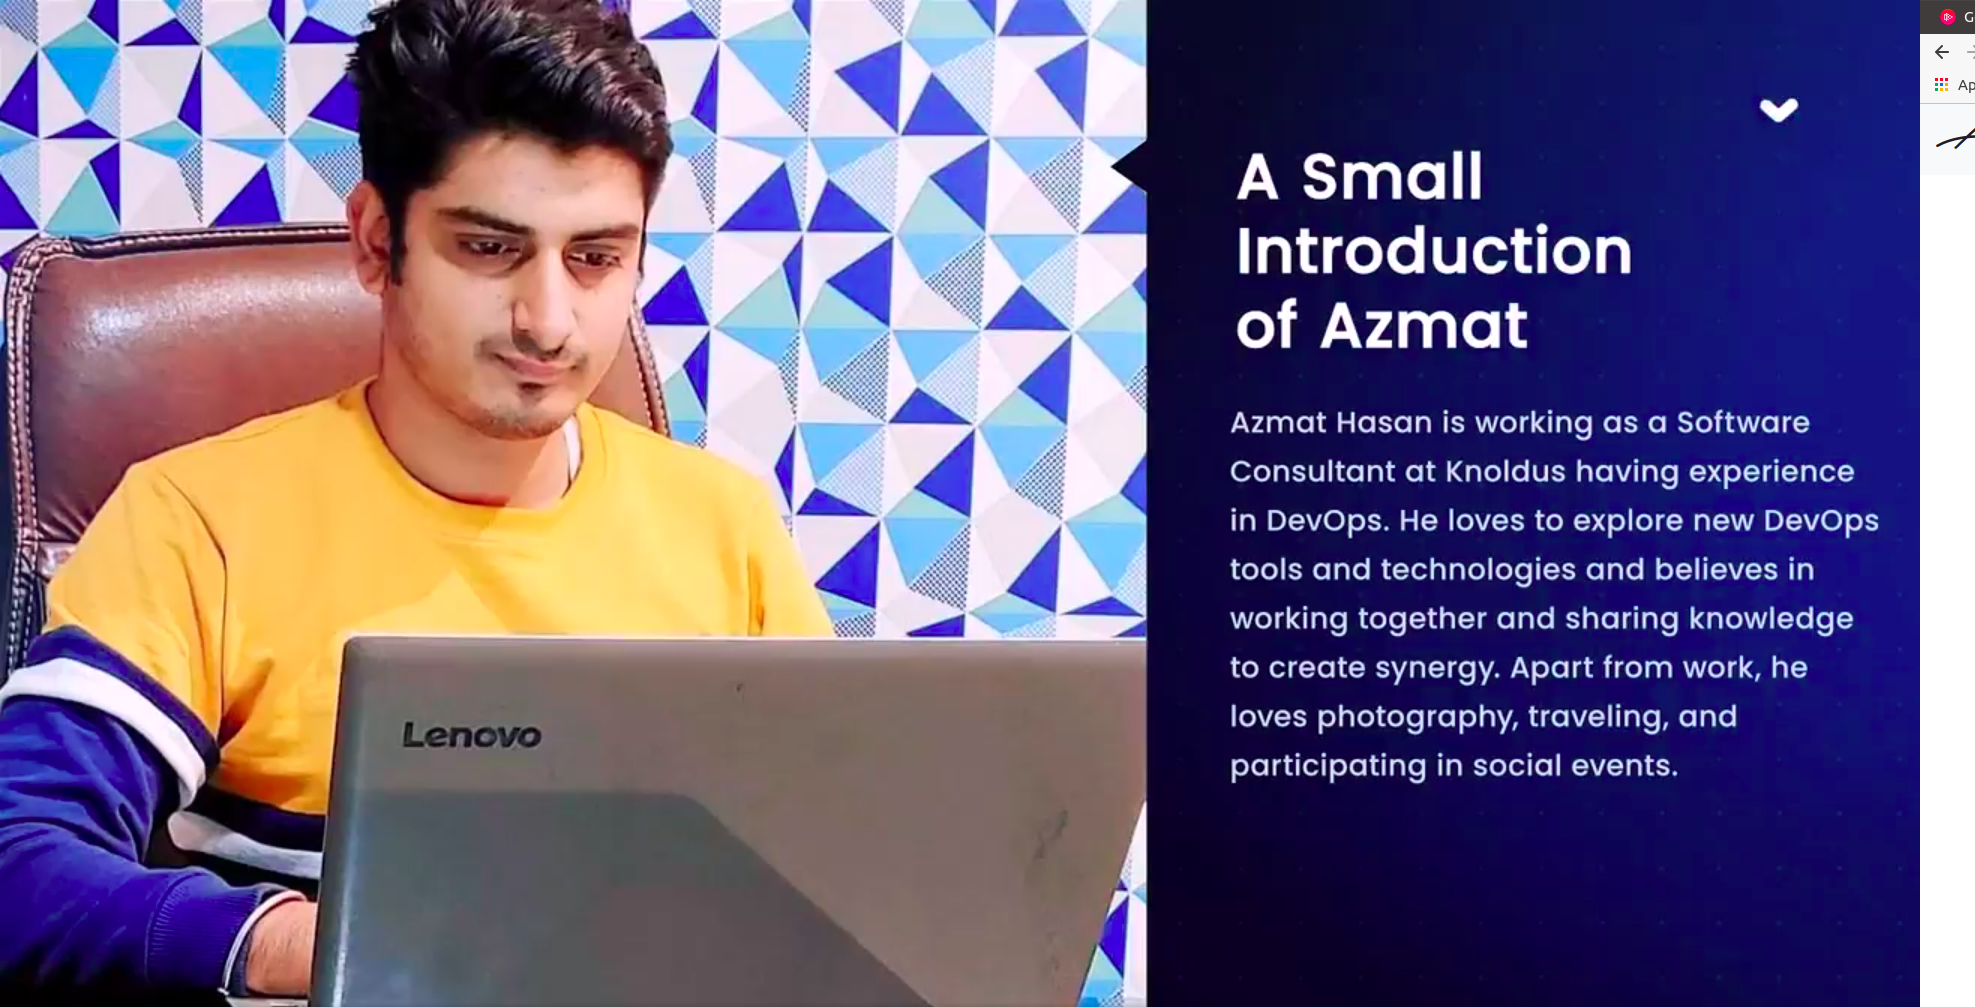
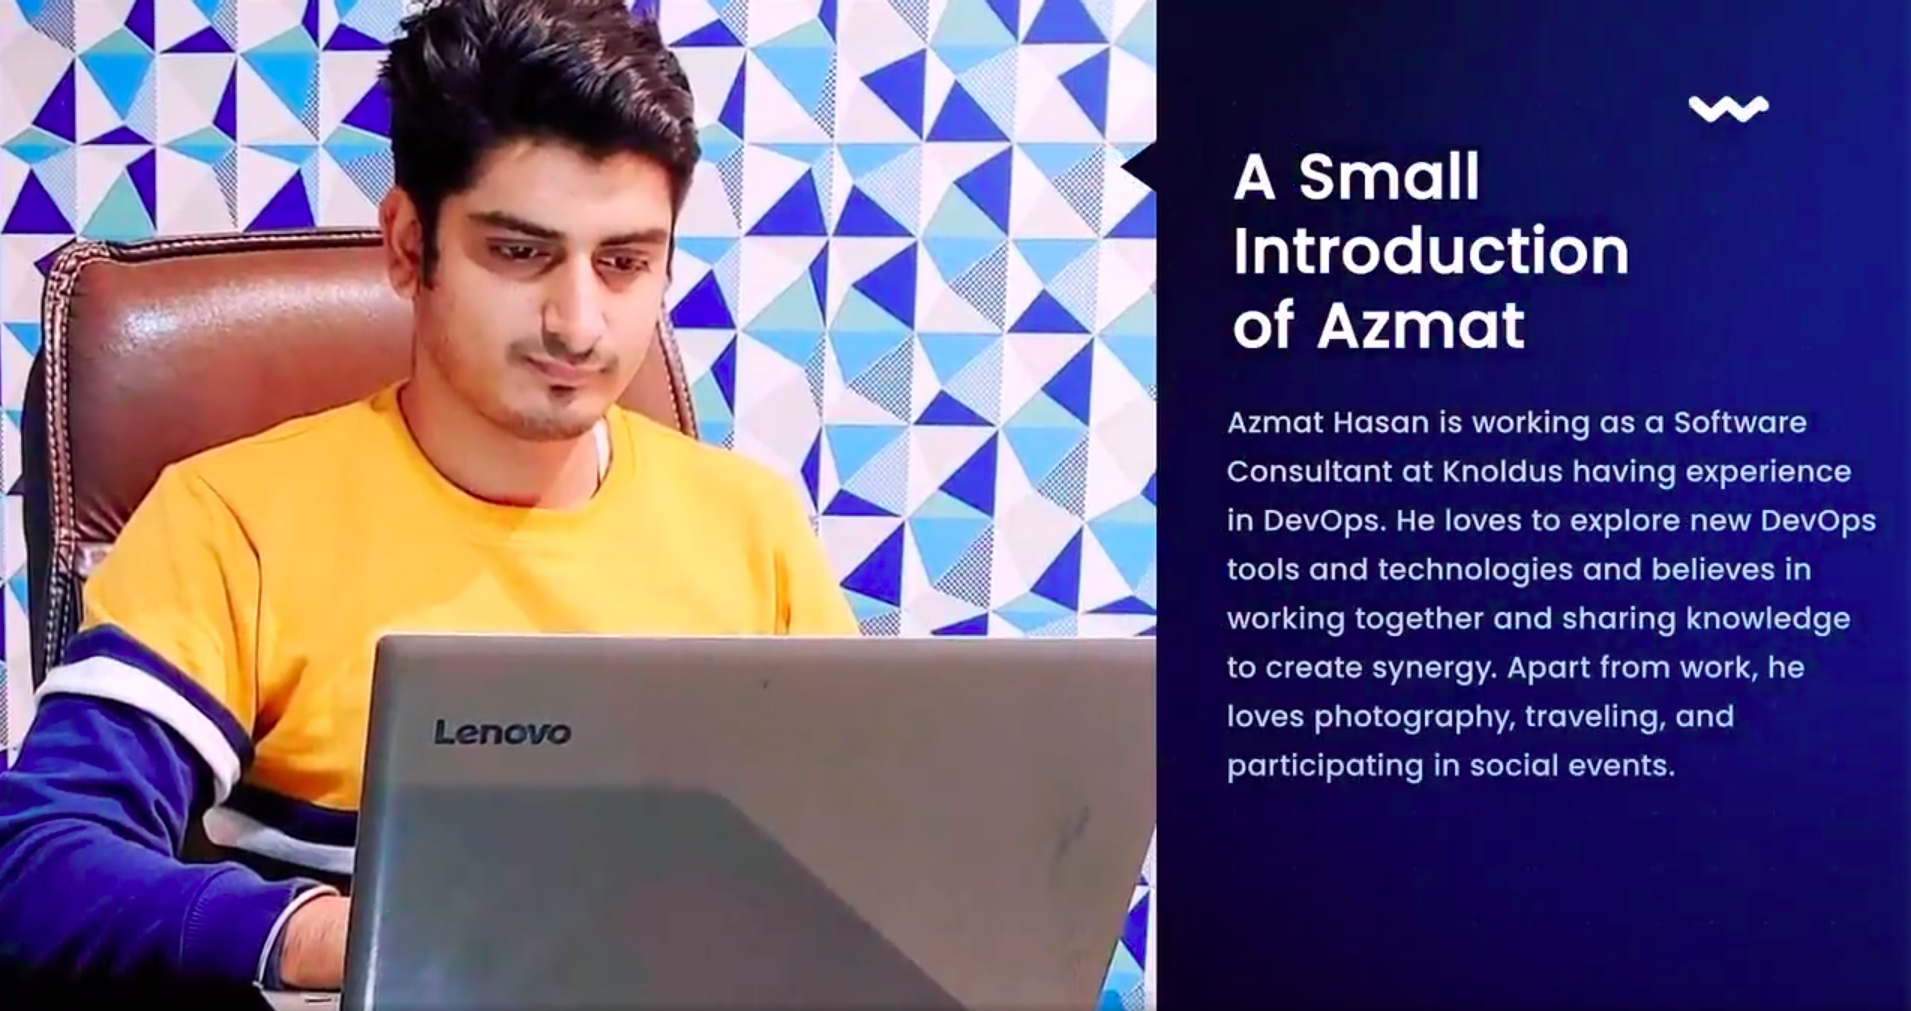
Removed unwanted files

diff --git a/introduction.html b/introduction.html
@@ -98,19 +98,19 @@
     <center>
        <div>
         <br><br><br>
-          <img src="assets/images/research-page/1.png" alt="" height="650" width="1200"><br><br>
+          <img src="assets/images/research-page/1.png" style="max-width:100%;height:auto;"><br><br>
       </div> 
        <div>
-          <img src="assets/images/research-page/2.png" alt="" height="700" width="1200"><br><br>
+          <img src="assets/images/research-page/2.png" style="max-width:100%;height:auto;"><br><br>
       </div>  
        <div>
-          <img src="assets/images/research-page/3.png" alt="" height="700" width="1200"><br><br>
+          <img src="assets/images/research-page/3.png" style="max-width:100%;height:auto;"><br><br>
       </div>  
        <div>
-          <img src="assets/images/research-page/4.png" alt="" height="700" width="1200"><br><br>
+          <img src="assets/images/research-page/4.png" style="max-width:100%;height:auto;"><br><br>
       </div>  
        <div>
-          <img src="assets/images/research-page/5.png" alt="" height="600" width="1200"><br><br>
+          <img src="assets/images/research-page/5.png" style="max-width:100%;height:auto;"><br><br>
       </div>     
     </center>
 
